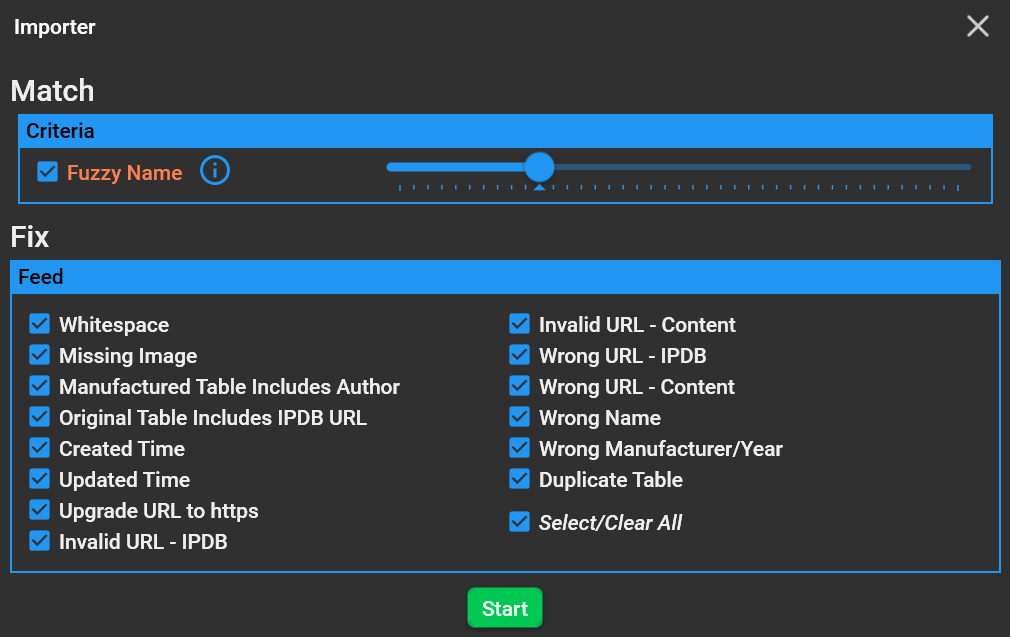
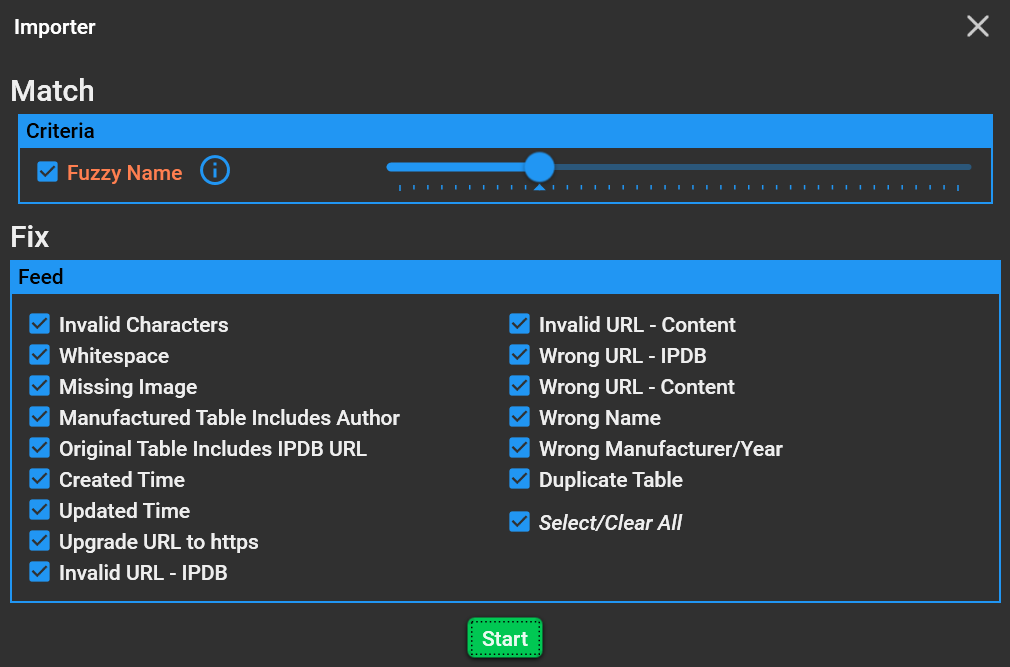
importer: added option to strip invalid characters that are incompatible with the windows file system

Changed region(s): [[0.0, 0.1193, 1.0, 0.9843], [0.0307, 0.0298, 0.0921, 0.0597], [0.9515, 0.0298, 0.9822, 0.0597]]

diff --git a/ClrVpin/Importer/Importer.xaml b/ClrVpin/Importer/Importer.xaml
@@ -39,7 +39,7 @@
 
       <TextBlock Style="{StaticResource TitleStyle}">Fix</TextBlock>
       <GroupBox Header="Feed" >
-        <ItemsControl ItemsSource="{Binding FeedFixOptionsView}" BorderThickness="5" HorizontalAlignment="Left" ItemTemplate="{StaticResource FeatureTypeCheckBoxTemplate}" Height="180">
+        <ItemsControl ItemsSource="{Binding FeedFixOptionsView}" BorderThickness="5" HorizontalAlignment="Left" ItemTemplate="{StaticResource FeatureTypeCheckBoxTemplate}" Height="200">
           <ItemsControl.ItemsPanel>
             <ItemsPanelTemplate>
               <WrapPanel Orientation="Vertical" ItemWidth="320" />

diff --git a/ClrVpin/Shared/FileUtils.cs b/ClrVpin/Shared/FileUtils.cs
@@ -3,6 +3,7 @@ using System.Collections.Generic;
 using System.Diagnostics.CodeAnalysis;
 using System.IO;
 using System.Linq;
+using System.Text.RegularExpressions;
 using ByteSizeLib;
 using ClrVpin.Logging;
 using ClrVpin.Models.Shared;
@@ -16,6 +17,9 @@ namespace ClrVpin.Shared
         static FileUtils()
         {
             _settings = Model.Settings;
+
+            _invalidFileNameChars = Path.GetInvalidFileNameChars();
+            _invalidCharsRegex = new Regex($"[{_invalidFileNameChars.StringJoin("")}]", RegexOptions.Compiled);
         }
 
         public static string ActiveBackupFolder { get; private set; }
@@ -132,6 +136,22 @@ namespace ClrVpin.Shared
 
             var fileName = Path.GetFileName(path);
             return fileName.IndexOfAny(_invalidFileNameChars) != -1;
+        }
+        
+        public static string RemoveInvalidFileNameChars(this string path)
+        {
+            if (path == null)
+                return null;
+
+            var fileName = Path.GetFileName(path);
+
+            // special case - replace double quote with a single quote
+            fileName = fileName.Replace("\"", "'");
+
+            // everything else - strip the character
+            fileName = _invalidCharsRegex.Replace(fileName, "");
+
+            return fileName;
         }
 
         public static void Backup(string file, string subFolder, Action<string> backupAction = null, bool ignoreTrainerWheels = false)
@@ -286,6 +306,7 @@ namespace ClrVpin.Shared
         private static string _rootBackupFolder;
         private static readonly Models.Settings.Settings _settings;
 
-        private static readonly char[] _invalidFileNameChars = Path.GetInvalidFileNameChars();
+        private static readonly char[] _invalidFileNameChars;
+        private static readonly Regex _invalidCharsRegex;
     }
 }

diff --git a/ClrVpin/Importer/ImporterFix.cs b/ClrVpin/Importer/ImporterFix.cs
@@ -6,6 +6,7 @@ using ClrVpin.Logging;
 using ClrVpin.Models.Importer;
 using ClrVpin.Models.Importer.Vps;
 using ClrVpin.Models.Shared.Game;
+using ClrVpin.Shared;
 using ClrVpin.Shared.Fuzzy;
 using Utils.Extensions;
 
@@ -96,8 +97,10 @@ public static class ImporterFix
     {
         FixNamedGames(onlineGame);
 
-        FixTableWhitespace(onlineGame);
+        FixTableInvalidCharacters(onlineGame);
+        FixManufacturerInvalidCharacters(onlineGame);
 
+        FixTableWhitespace(onlineGame);
         FixManufacturerWhitespace(onlineGame);
 
         FixManufacturedIncludesAuthor(onlineGame);
@@ -220,6 +223,24 @@ public static class ImporterFix
 
         LogFixed(onlineGame, FixStatisticsEnum.NameWhitespace);
         onlineGame.Name = onlineGame.Name.Trim();
+    }
+
+    private static void FixTableInvalidCharacters(OnlineGameBase onlineGame)
+    {
+        if (!IsActive(FixFeedOptionEnum.InvalidCharacters) || !onlineGame.Name.HasInvalidFileNameChars())
+            return;
+
+        LogFixed(onlineGame, FixStatisticsEnum.NameInvalidCharacters);
+        onlineGame.Name = onlineGame.Name.RemoveInvalidFileNameChars();
+    }
+    
+    private static void FixManufacturerInvalidCharacters(OnlineGameBase onlineGame)
+    {
+        if (!IsActive(FixFeedOptionEnum.InvalidCharacters) || !onlineGame.Manufacturer.HasInvalidFileNameChars())
+            return;
+
+        LogFixed(onlineGame, FixStatisticsEnum.ManufacturerInvalidCharacters);
+        onlineGame.Manufacturer = onlineGame.Manufacturer.RemoveInvalidFileNameChars();
     }
 
     private static void FixNamedGames(OnlineGame onlineGame)

diff --git a/ClrVpin/Models/Settings/StaticSettings.cs b/ClrVpin/Models/Settings/StaticSettings.cs
@@ -103,6 +103,7 @@ namespace ClrVpin.Models.Settings
         // all possible file merge options - to be used elsewhere (importer)
         public static readonly FixFeedOption[] FixFeedOptions =
         {
+            new FixFeedOption {Enum = FixFeedOptionEnum.InvalidCharacters, Tip = "Fix or remove any invalid characters (anything not supported by the windows file system)"},
             new FixFeedOption {Enum = FixFeedOptionEnum.Whitespace, Tip = "Remove excess whitespace from table and manufacturer descriptions"},
             new FixFeedOption {Enum = FixFeedOptionEnum.MissingImageUrl, Tip = "Fix missing image by assigning an alternate image from the same table (if available)"},
             new FixFeedOption {Enum = FixFeedOptionEnum.ManufacturedIncludesAuthor, Tip = "Remove author from manufactured table (original tables are unchanged)"},

diff --git a/ClrVpin/Models/Importer/FixFeedOptionEnum.cs b/ClrVpin/Models/Importer/FixFeedOptionEnum.cs
@@ -4,6 +4,7 @@ namespace ClrVpin.Models.Importer
 {
     public enum FixFeedOptionEnum
     {
+        [Description("Invalid Characters")] InvalidCharacters,
         [Description("Whitespace")] Whitespace,
         [Description("Missing Image")] MissingImageUrl,
         [Description("Manufactured Table Includes Author")] ManufacturedIncludesAuthor,

diff --git a/ClrVpin/Importer/FixStatisticEnum.cs b/ClrVpin/Importer/FixStatisticEnum.cs
@@ -4,6 +4,12 @@ namespace ClrVpin.Importer;
 
 public enum FixStatisticsEnum
 {
+    [Description("Invalid Characters - Name")]
+    NameInvalidCharacters,
+
+    [Description("Invalid Characters - Manufacturer")]
+    ManufacturerInvalidCharacters,
+
     [Description("Whitespace - Name")]
     NameWhitespace,
 

diff --git a/ClrVpin/Importer/ImporterStatisticsViewModel.cs b/ClrVpin/Importer/ImporterStatisticsViewModel.cs
@@ -90,7 +90,7 @@ namespace ClrVpin.Importer
         private readonly List<OnlineGame> _onlineGames;
         private readonly List<GameDetail> _games;
 
-        private const int StatisticsKeyWidth = -32;
+        private const int StatisticsKeyWidth = -35;
         private const int WindowMargin = 0;
     }
 }
